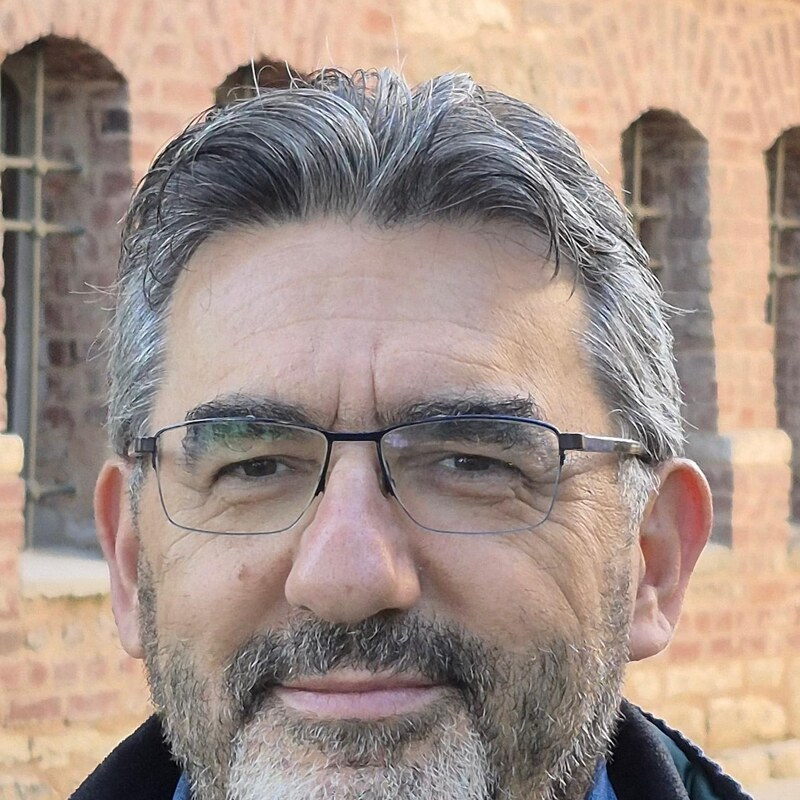
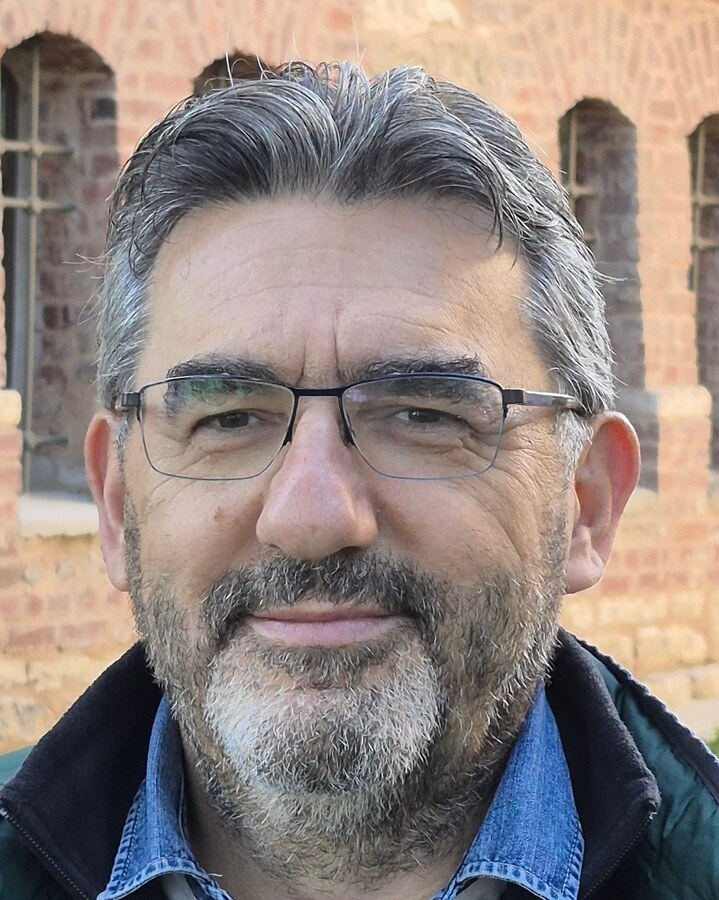
Fix layout bugs and reconcile bibliography against the CV
Bugs:
- Page descriptions containing raw <a> tags broke out of the meta
  description attribute, leaking 'research page.">' onto the rendered
  page. Descriptions are now plain text; the WoS figures and research
  link moved into the publications page body.
- Honors and Awards rendered as four empty bullets: the section name
  routes to the theme's awards.liquid, which expects title/awarder/date,
  not the label/details pair I had used. Retyped that section and moved
  Funded Projects to the theme's Projects schema (name/dates/highlights),
  so both now render with year badges instead of bare text.
- Footer duplicated the copyright line; dropped the theme attribution.
- About-page contact icons inherited the theme's 4rem sizing. Added a
  local main.scss that keeps the gem imports and scales them to 1.75rem.
- Profile photo was force-cropped to a square; regenerated from the
  source at its natural 4:5 ratio.

Content:
- Research areas no longer count down 7..1; each is named, with its
  active period, ordered most recent first.
- Invitation to new research students moved to the top of that page.

Bibliography audit against the September 2026 CV, both directions:
- All 47 entries verified present in the CV; none fabricated.
- Uğurel 2012 title corrected to the CV's English wording (the Turkish
  title came from the superseded 2020 page).
- 2003 proceedings title, PhD thesis spelling ("Optimized"), SENSORNETS
  and UYMS'21 titles aligned to the CV.
[…]

diff --git a/assets/css/main.scss b/assets/css/main.scss
@@ -1,0 +1,72 @@
+---
+# Only the main Sass file needs front matter (the dashes are enough)
+---
+@charset "utf-8";
+
+/* Built-in Sass modules you’ll likely use across partials */
+@use "sass:math";
+@use "sass:string";
+
+/* Configure your design tokens BEFORE loading any of your partials.
+   Make sure `_sass/_variables.scss` declares `$max-content-width: 72rem !default;` */
+@use "variables" with (
+  $max-content-width: {{ site.max_width | default:  "930px" }}
+);
+
+/* Your project partials — convert these files to `@use "variables";`
+   (or `@use "variables" as *;`) inside each file and qualify variables if needed. */
+@use "themes";
+@use "layout";
+
+// Core styles organized by usage
+@use "typography";
+@use "navbar";
+@use "footer";
+@use "blog";
+@use "publications";
+@use "components";
+@use "utilities";
+
+// Other specialized styles
+@use "tabs";
+@use "teachings";
+@use "typograms";
+
+/* ---------------------------------------------------------------------------
+   Site-local overrides
+   --------------------------------------------------------------------------- */
+
+/* The theme sizes the about-page contact icons at 4rem, which renders them
+   much larger than the surrounding text. Bring them down to a size that sits
+   comfortably under the profile column. */
+.social .contact-icons {
+  font-size: 1.75rem;
+
+  a {
+    margin: 0 0.35rem;
+
+    img {
+      width: 1.6rem;
+      height: 1.6rem;
+      margin-bottom: 0.25rem;
+    }
+
+    svg {
+      width: 1.75rem;
+      height: 1.75rem;
+      margin-bottom: 0.25rem;
+
+      image {
+        width: 1.75rem;
+        height: 1.75rem;
+      }
+    }
+  }
+}
+
+/* Profile photo: show the whole portrait rather than a cropped square. */
+.profile img {
+  width: 100%;
+  height: auto;
+  object-fit: contain;
+}

diff --git a/_pages/research.md b/_pages/research.md
@@ -2,16 +2,17 @@
 layout: page
 permalink: /research/
 title: research
-description: Research results organised by subject area, from parallel algorithm implementation through to SoC based multi-core systems.
+description: Research results organised by subject area.
 nav: true
 nav_order: 1
 ---
 
-My research has moved through seven overlapping subject areas over three decades, beginning with parallel algorithm implementation on transputers and arriving at SoC based multi-core systems and modern network architectures. Each area below lists the topics studied and the theses, journal articles, conference papers and patents that came out of them.
+My research spans seven overlapping subject areas developed over three decades, beginning with parallel algorithm implementation on transputers and arriving at SoC based multi-core systems and modern network architectures. They are listed here from the most recent back to the earliest; each area gives the topics studied and the theses, journal articles, conference papers and patents that came out of them.
 
 ---
 
-## 7 · SoC based multi-core systems
+## SoC based multi-core systems
+<p class="text-muted"><em>Most recent · 2019–present</em></p>
 
 - Efficient design and implementation of embedded systems with FPGAs and SoCs
 - Use of partial reconfiguration in FPGAs
@@ -41,7 +42,8 @@ My research has moved through seven overlapping subject areas over three decades
 
 ---
 
-## 6 · Microprocessor systems, embedded systems, reconfigurable systems
+## Microprocessor, embedded and reconfigurable systems
+<p class="text-muted"><em>2011–present</em></p>
 
 - Efficient design and implementation of embedded systems with FPGAs
 - Issues and components towards security of embedded systems
@@ -78,7 +80,8 @@ My research has moved through seven overlapping subject areas over three decades
 
 ---
 
-## 5 · High performance computer network architectures and design
+## High performance computer network architectures
+<p class="text-muted"><em>2009–2015</em></p>
 
 - High performance implementation of network protocols
 - High performance and cost effective design of core router functionalities using special data structures — fast packet processing, fast packet classification, implementation on FPGAs
@@ -115,7 +118,8 @@ My research has moved through seven overlapping subject areas over three decades
 
 ---
 
-## 4 · Modern computer network architectures, protocols and applications
+## Modern network architectures, protocols and applications
+<p class="text-muted"><em>2001–2026</em></p>
 
 - Cloud architecture
 - Software defined networks (SDN)
@@ -148,7 +152,8 @@ My research has moved through seven overlapping subject areas over three decades
 
 ---
 
-## 3 · Graph theory and optimization
+## Graph theory and optimization
+<p class="text-muted"><em>2001–2008</em></p>
 
 - Graph algorithms
 - Optimization theory and mathematical programming
@@ -177,7 +182,8 @@ My research has moved through seven overlapping subject areas over three decades
 
 ---
 
-## 2 · Network modelling, planning, design and optimization
+## Network modelling, planning and design
+<p class="text-muted"><em>1994–2001</em></p>
 
 Synthesis and design of communication and computer networks using graph theoretical techniques, optimization methods and advanced data structures.
 
@@ -206,7 +212,8 @@ Synthesis and design of communication and computer networks using graph theoreti
 
 ---
 
-## 1 · Parallel algorithm implementation
+## Parallel algorithm implementation
+<p class="text-muted"><em>Earliest · 1991–1992</em></p>
 
 FFT implementation and performance evaluation on a multi-core computer system using transputers and the programming language Occam.
 

diff --git a/_pages/students.md b/_pages/students.md
@@ -7,6 +7,30 @@ nav: true
 nav_order: 3
 ---
 
+<a id="invitation"></a>
+
+## Invitation to new research students
+
+Under my supervision, thesis topics in the following research areas can be studied leading to an MSc or PhD degree. Details are available on request by e-mail.
+
+- Computer systems and architecture
+- Embedded systems
+- Reconfigurable architectures
+- System-on-chip (SoC) based applications
+- High speed switching circuits
+- Data networks and network protocols
+- Parallel optimization algorithms
+- Studies on variants of the minimum spanning tree problem (MST)
+- Parallel and distributed graph algorithms (parallel MST, parallel shortest path, etc.)
+
+Candidates who would like to carry out research on the above topics should have:
+
+- a strong interest in algorithm design, HW/SW design and implementation, networks, graphs, optimization and parallel computing, as appropriate;
+- a strong mathematical background;
+- sound knowledge of one of the high level programming languages.
+
+---
+
 ## Current MSc students
 
 | Student | Thesis topic | Expected |
@@ -134,26 +158,3 @@ Where former students are today.
 - **Erhan Asım Öztürk** (2001) — Systems Engineering Manager, STM (Turkey)
 - **Dilek Ertem** (2001) — Technical Proposal Manager, Aselsan (Turkey)
 
----
-
-<a id="invitation"></a>
-
-## Invitation to new research students
-
-Under my supervision, thesis topics in the following research areas can be studied leading to an MSc or PhD degree. Details are available on request by e-mail.
-
-- Computer systems and architecture
-- Embedded systems
-- Reconfigurable architectures
-- System-on-chip (SoC) based applications
-- High speed switching circuits
-- Data networks and network protocols
-- Parallel optimization algorithms
-- Studies on variants of the minimum spanning tree problem (MST)
-- Parallel and distributed graph algorithms (parallel MST, parallel shortest path, etc.)
-
-Candidates who would like to carry out research on the above topics should have:
-
-- a strong interest in algorithm design, HW/SW design and implementation, networks, graphs, optimization and parallel computing, as appropriate;
-- a strong mathematical background;
-- sound knowledge of one of the high level programming languages.

diff --git a/_pages/publications.md b/_pages/publications.md
@@ -2,10 +2,13 @@
 layout: page
 permalink: /publications/
 title: publications
-description: Journal articles, conference papers, patents and theses in reverse chronological order. Web of Science record as of September 2026 &mdash; 21 documents, 117 citations, h-index 6. Research grouped by subject area is on the <a href="/research/">research</a> page.
+description: Journal articles, conference papers, patents and theses in reverse chronological order.
 nav: true
 nav_order: 2
 ---
+
+Web of Science record as of September 2026 — **21 documents**, **117 citations**, **h-index 6**.
+Research grouped by subject area is on the [research]({{ '/research/' | relative_url }}) page.
 
 <!-- Bibsearch Feature -->
 
